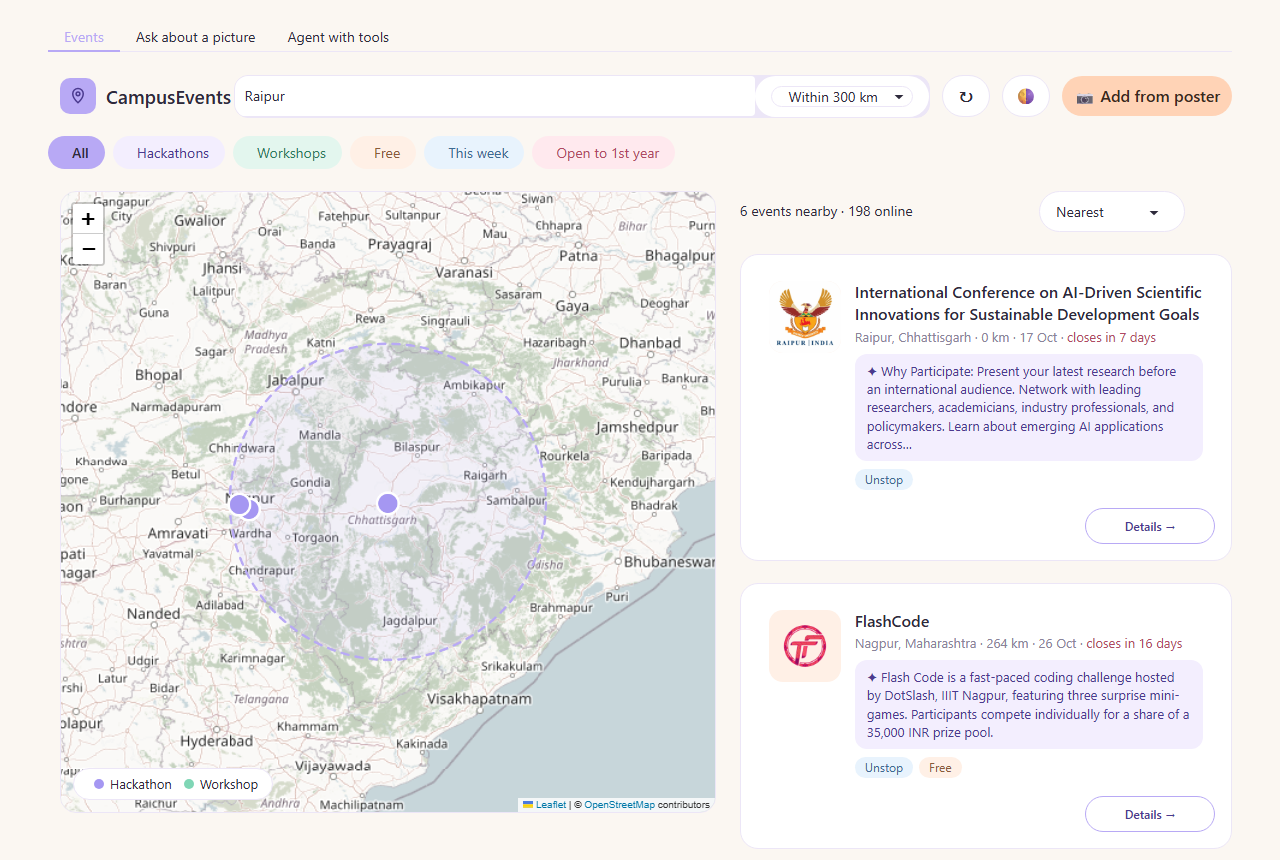
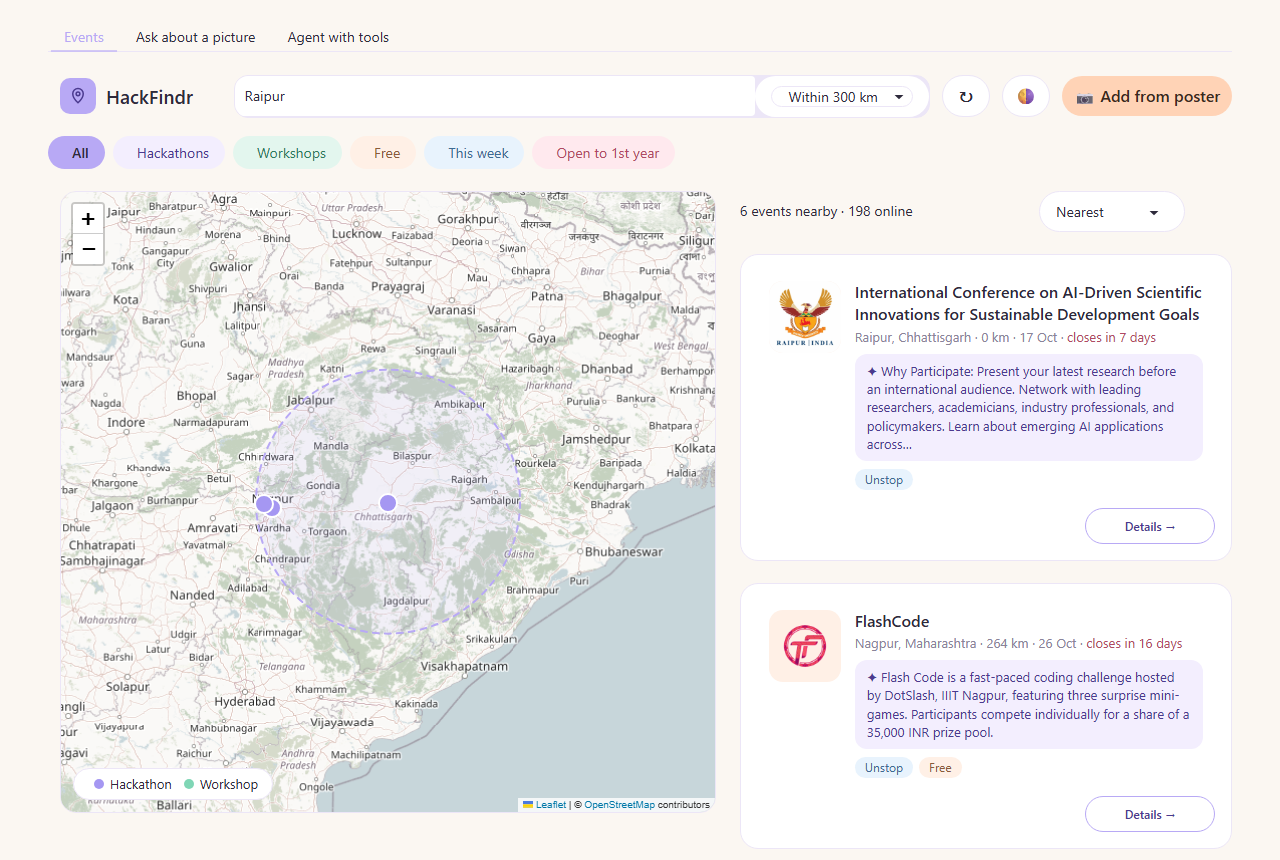
Rename the app from CampusEvents to HackFindr

Changed region(s): [[0.0312, 0.2116, 0.5625, 0.9674], [0.0625, 0.0907, 0.1875, 0.1209]]

diff --git a/events.py b/events.py
@@ -28,7 +28,7 @@ UNSTOP_CATEGORIES = {"hackathons": ("hackathon", 3), "workshops": ("workshop", 1
                      "conferences": ("conference", 1), "competitions": ("competition", 2)}
 DEVPOST_URL = "https://devpost.com/api/hackathons"
 DEVPOST_PAGES = 5          # Devpost sends 9 events per page
-HEADERS = {"User-Agent": "Mozilla/5.0 (campus-events student project)"}
+HEADERS = {"User-Agent": "Mozilla/5.0 (hackfindr student project)"}
 
 
 # ---------- small helpers ----------
@@ -87,7 +87,7 @@ def geocode(place):
         if wait > 0:
             time.sleep(wait)
         _last_geocode = time.time()
-        loc = Nominatim(user_agent="campus-events").geocode(place, timeout=10)
+        loc = Nominatim(user_agent="hackfindr").geocode(place, timeout=10)
         _geocache[key] = [loc.latitude, loc.longitude] if loc else None
     except Exception as e:
         print("geocode failed for", place, "->", e)

diff --git a/app_template/app.py b/app_template/app.py
@@ -1,4 +1,4 @@
-"""CampusEvents app. Run it from the repo folder:  python app_template/app.py
+"""HackFindr app. Run it from the repo folder:  python app_template/app.py
 
 Three tabs: the Events page (map + list + details + poster upload),
 ask Gemma 4 about a picture, and an agent that can use the event tools.
@@ -25,7 +25,7 @@ from harness.tools import filter_events
 SYSTEM_RULE = ("You help students find events. Use search_events, then get_event_details if needed. "
                "List titles, cities, distances, dates and register links. Keep answers short.")
 
-TITLE = "CampusEvents"
+TITLE = "HackFindr"
 DEFAULT_CITY = "Raipur"
 DEFAULT_RADIUS = 300  # km shown when the app opens
 RADIUS_CHOICES = [(f"Within {km} km", km) for km in (50, 100, 300, 500, 1000, 2000)]

diff --git a/harness/tools.py b/harness/tools.py
@@ -124,7 +124,7 @@ def save_note(text: str):
     return "Saved the note."
 
 
-# ---------- CampusEvents: search the saved events.json ----------
+# ---------- HackFindr: search the saved events.json ----------
 # These tools only READ events.json. Looking up a city name may use the geocoder (cached in geocache.json).
 
 import sys  # noqa: E402

diff --git a/README.md b/README.md
@@ -1,6 +1,6 @@
-# CampusEvents: built with Gemma 4
+# HackFindr: built with Gemma 4
 
-CampusEvents finds upcoming student events (hackathons, ideathons, webinars, workshops, competitions, conferences)
+HackFindr finds upcoming student events (hackathons, ideathons, webinars, workshops, competitions, conferences)
 from **Unstop** and **Devpost**, filters them by distance from your city, and shows them on a map.
 
 It is built with **Gemma 4 (`gemma-4-26b-a4b-it`) through the Gemini API** (`google-genai`). Gemma:
@@ -28,7 +28,7 @@ If the internet or an API is down, the app uses the saved `events.json` (offline
 | `harness/tools.py` | agent tools `search_events(city, radius_km, mode, event_type)` and `get_event_details(event_id)` |
 | `app_template/app.py` | Gradio UI: **Events Map** tab (folium map, online-events table, poster upload) and **Agent with tools** tab |
 | `gemma_client.py` | the starter's Gemma 4 helper (spacing, retries, cache) |
-| `skills/campus-events/SKILL.md` | agent skill describing how to use the tools |
+| `skills/hackfindr/SKILL.md` | agent skill describing how to use the tools |
 
 Distance is the straight-line (haversine) distance from the city you type.
 Geocoding uses OpenStreetMap Nominatim at most once per second.

diff --git a/skills/hackfindr/SKILL.md b/skills/hackfindr/SKILL.md
@@ -1,9 +1,9 @@
 ---
-name: campus-events
+name: hackfindr
 description: Find upcoming student hackathons, ideathons, webinars, workshops, competitions and conferences near a city, filtered by distance, and show their details and register links.
 license: MIT
 ---
-# CampusEvents agent skill
+# HackFindr agent skill
 
 Tools (in `harness/tools.py`):
 - `search_events(city, radius_km=100, mode="any", event_type="any")`: offline events near the city, sorted by distance, plus online events.
